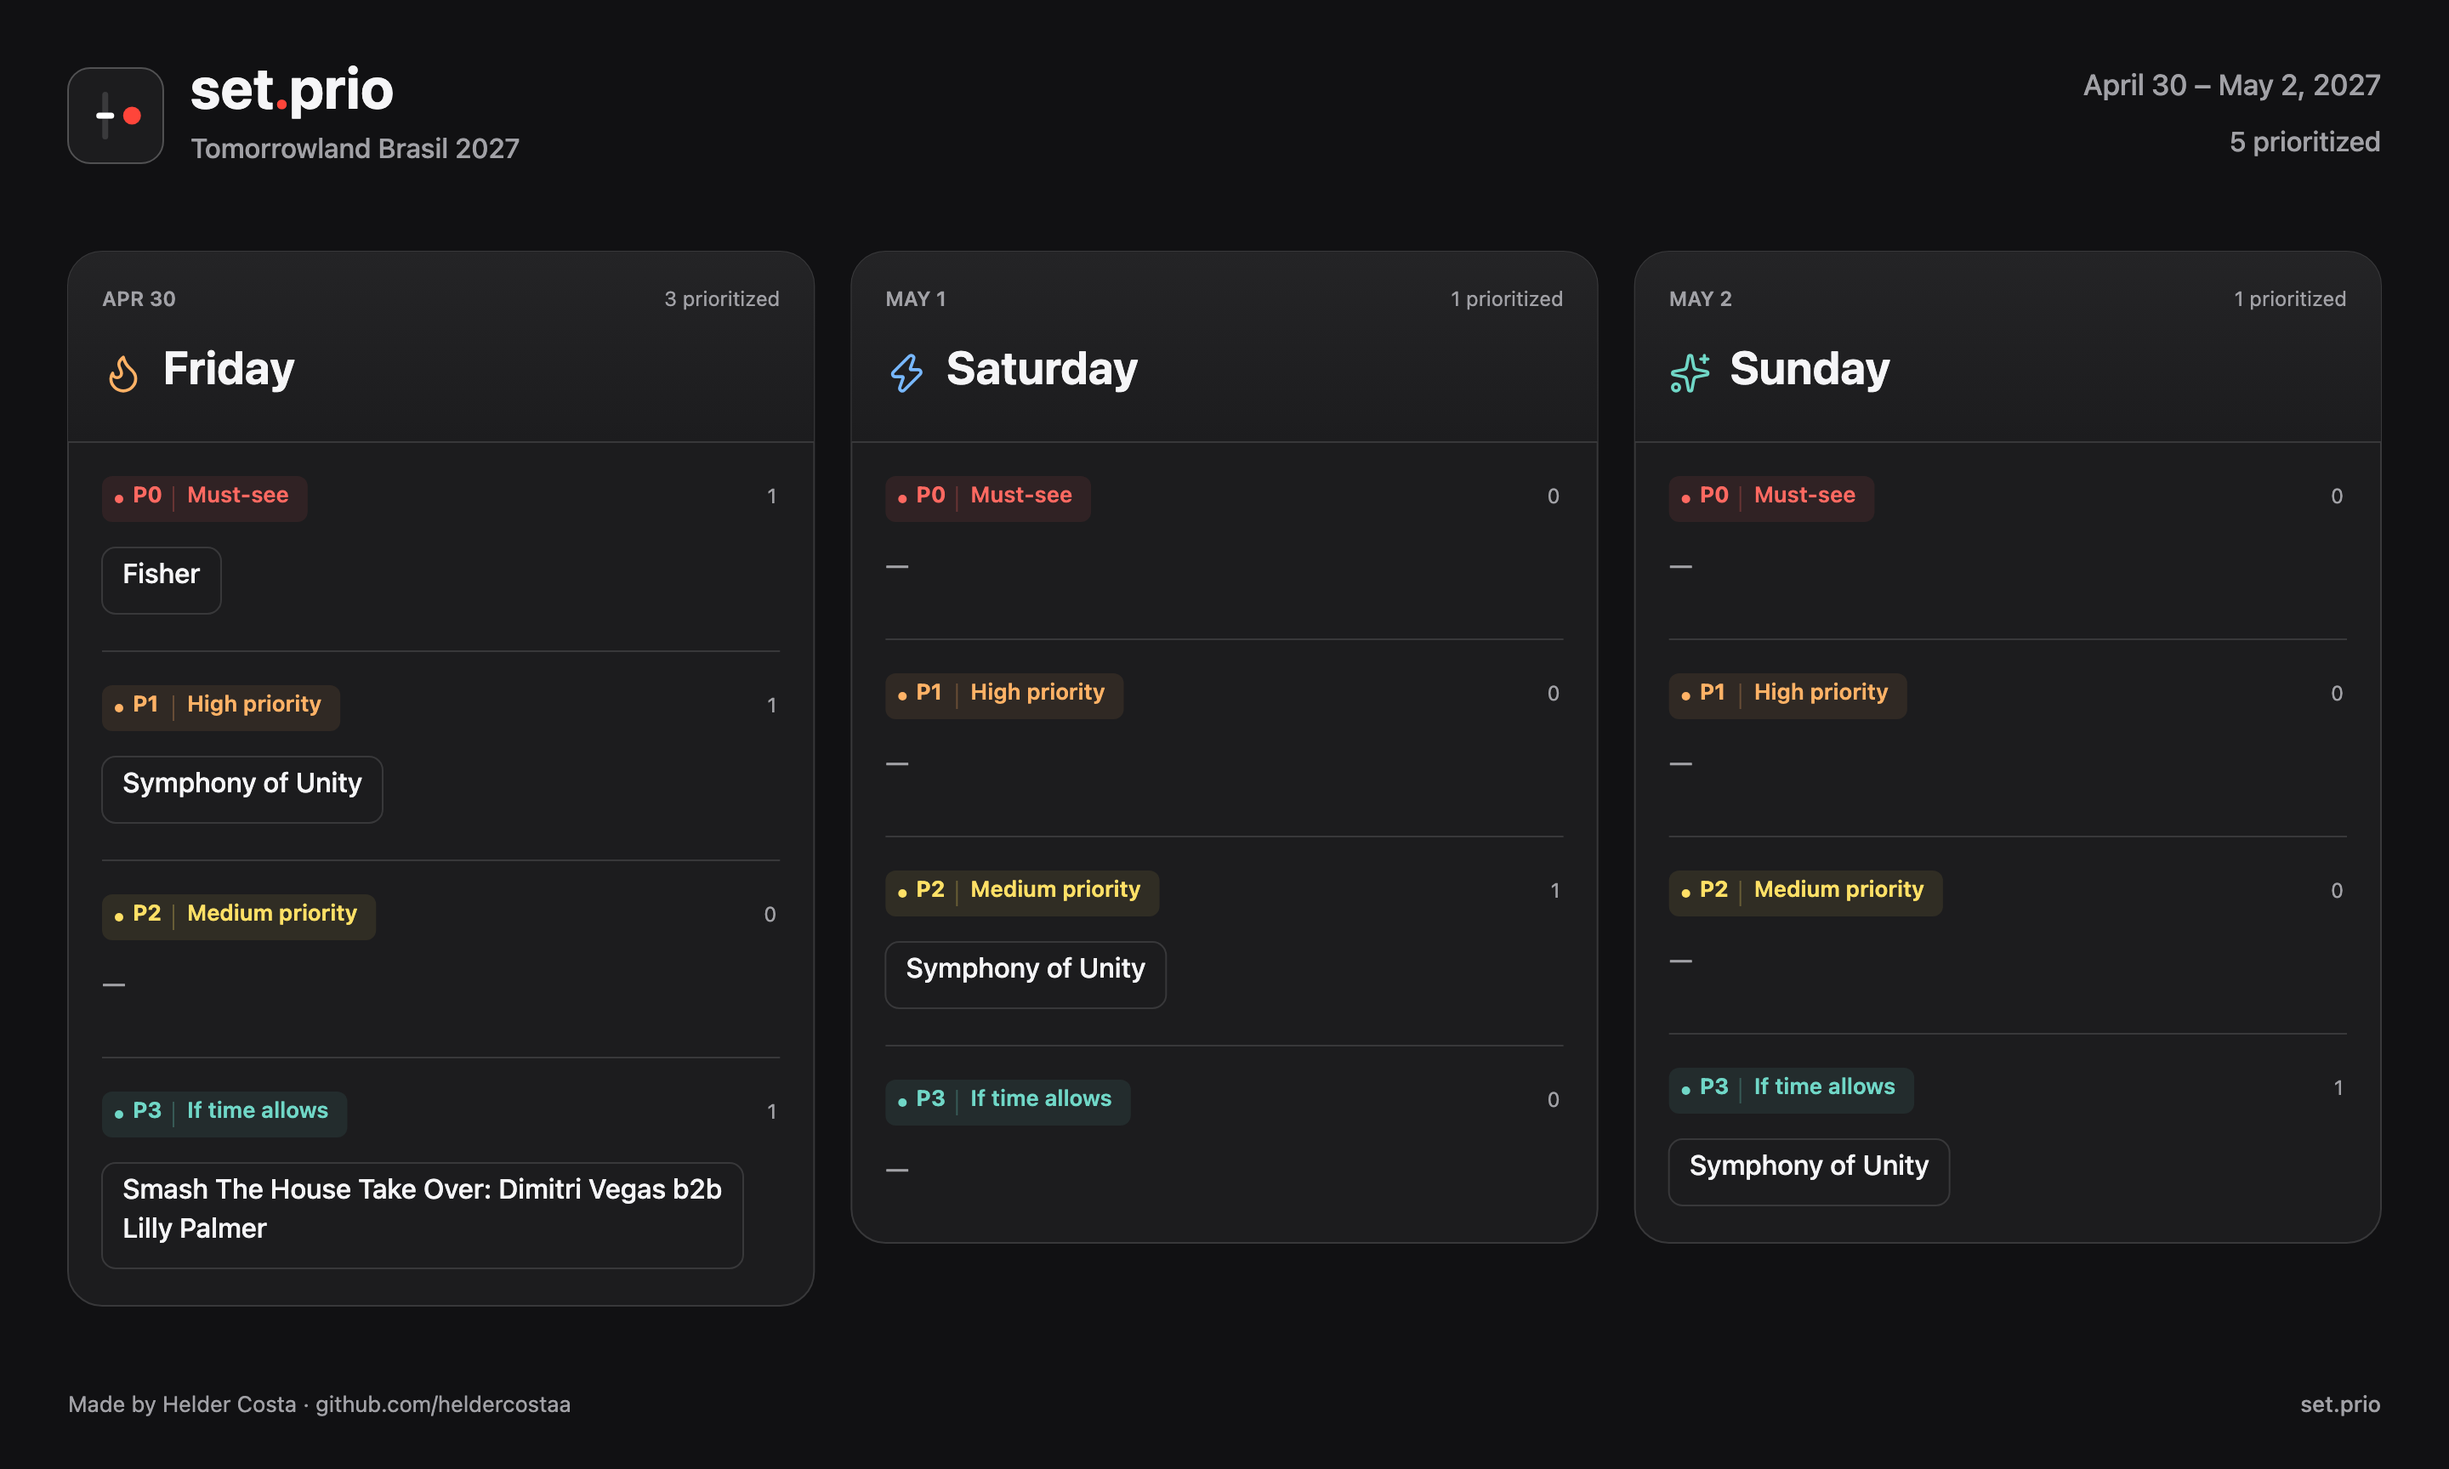
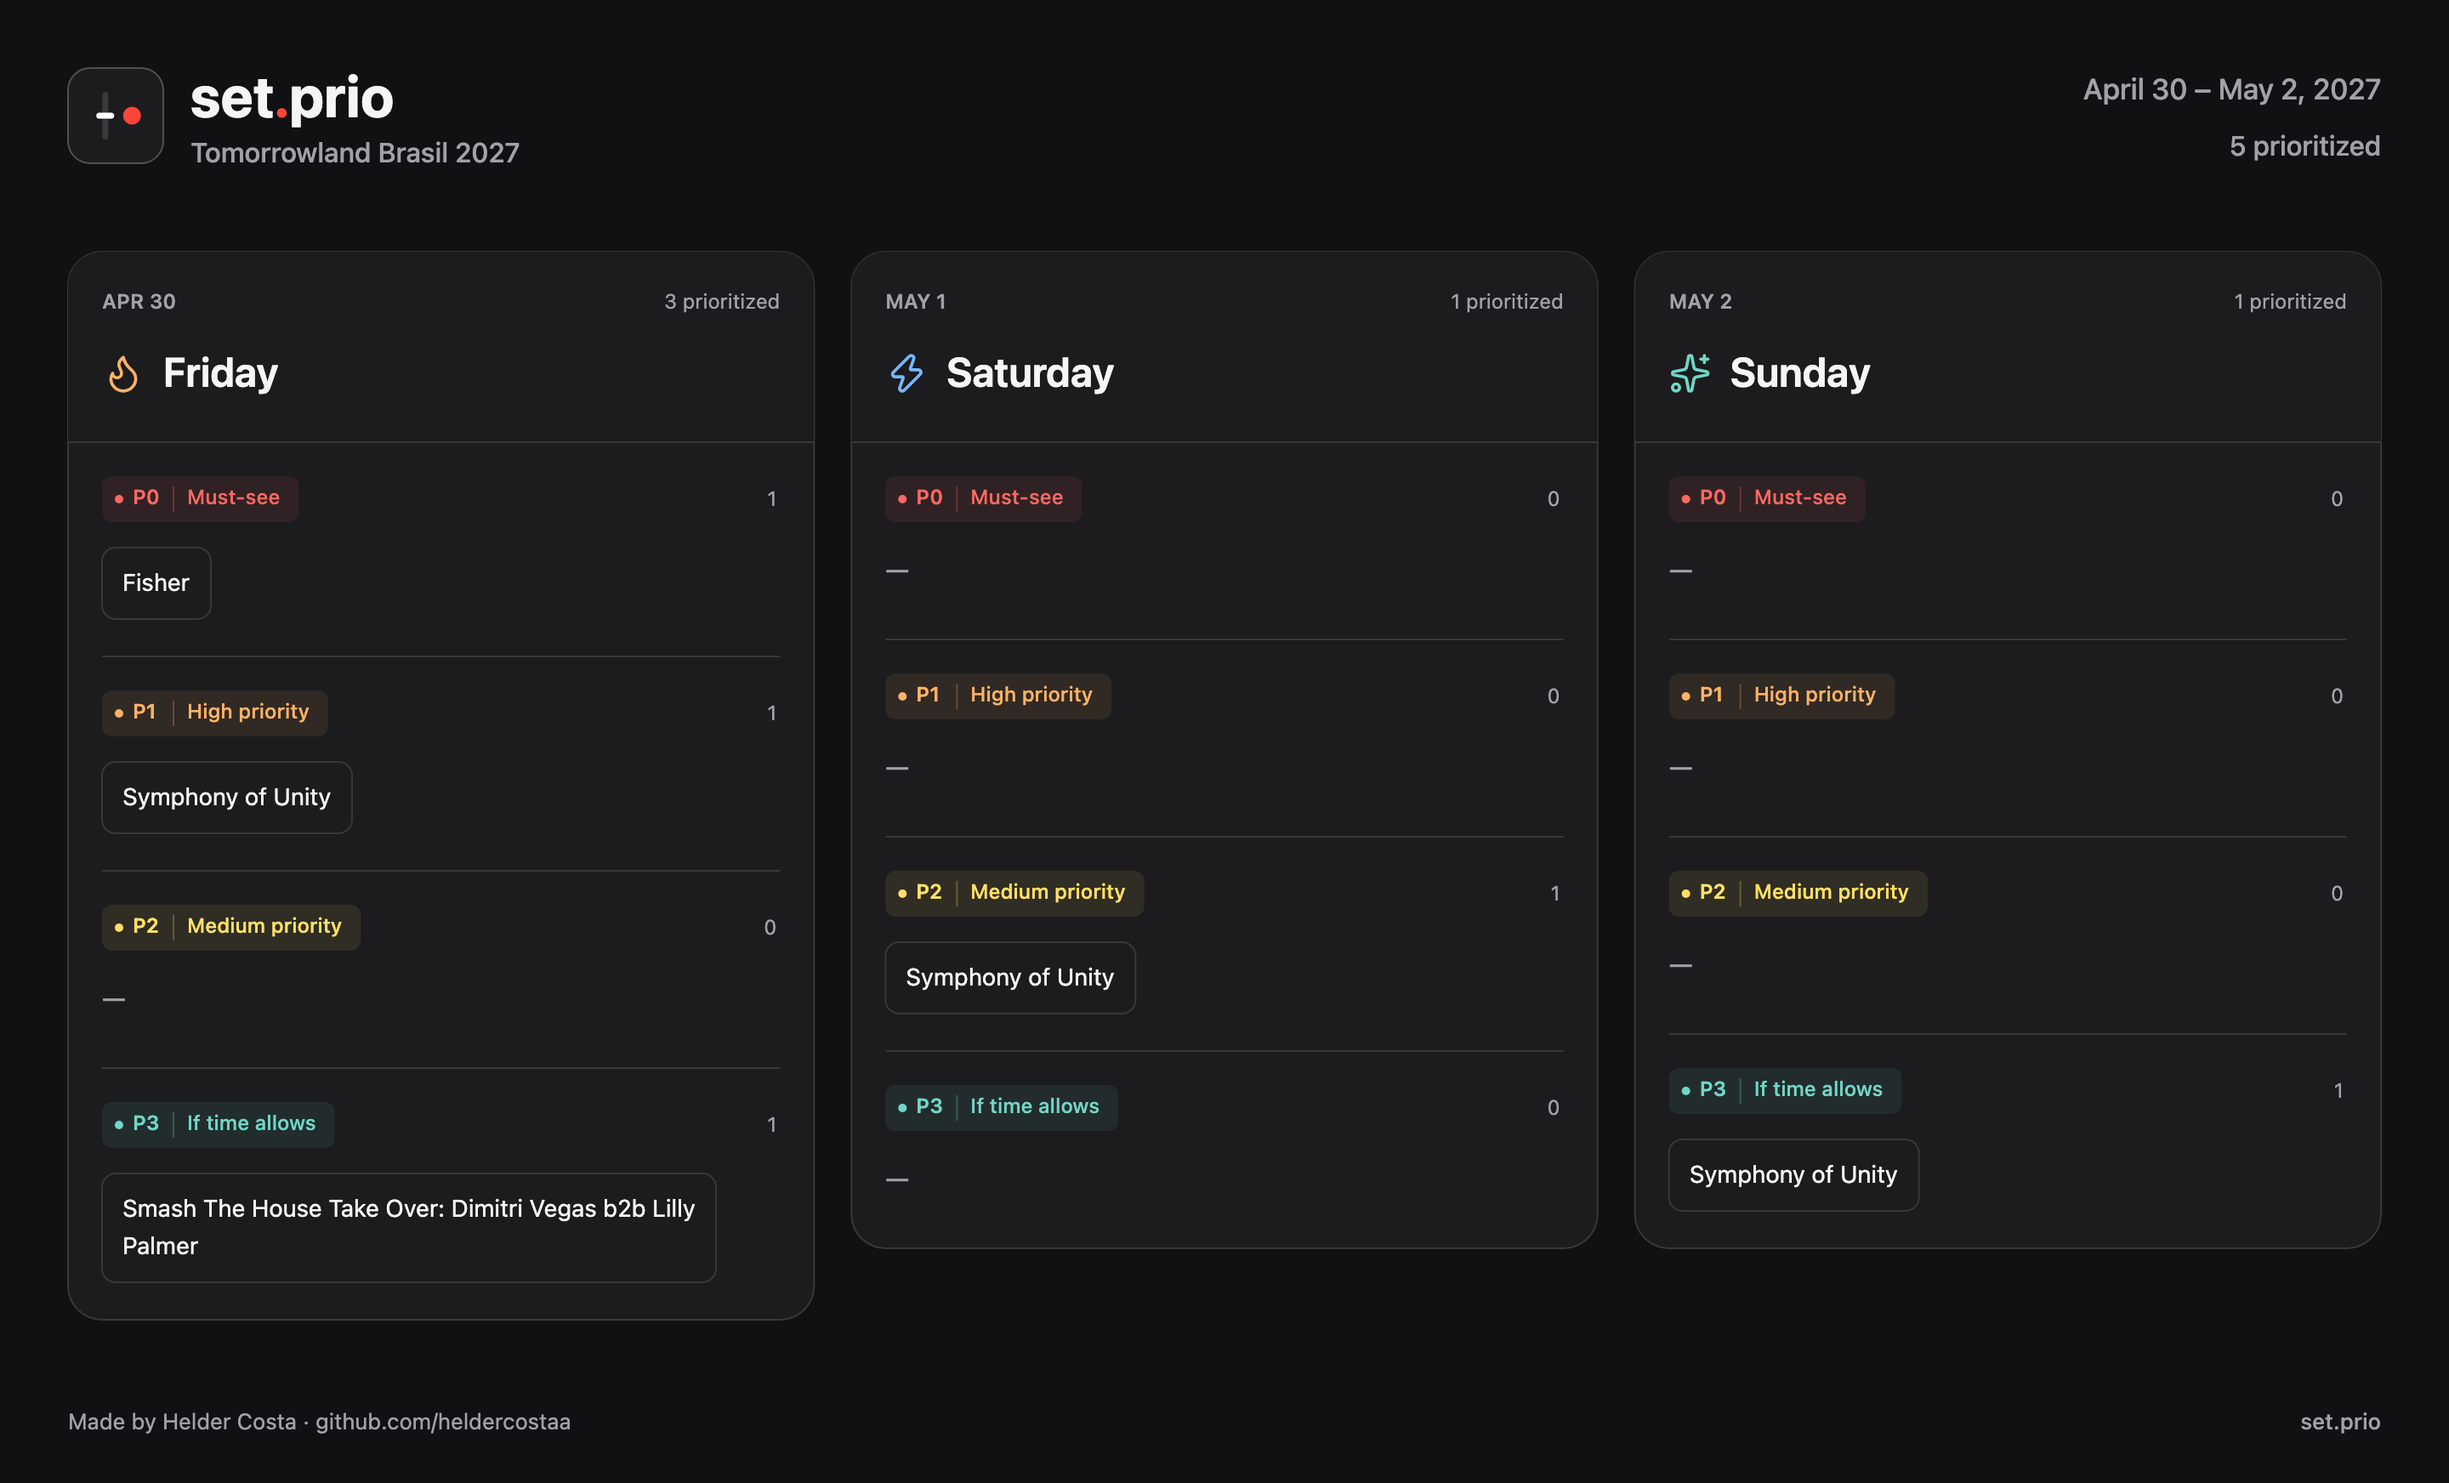
fix: align exported artist and priority typography (#7)

diff --git a/src/utils/exports.ts b/src/utils/exports.ts
@@ -203,8 +203,9 @@ export async function boardImage(entries: ExportEntry[], language: Language): Pr
   const canvas = document.createElement('canvas');
   const context = canvas.getContext('2d');
   if (!context) throw new Error('Canvas unavailable');
-  const font = (weight: number, size: number) => `${weight} ${size}px system-ui, sans-serif`;
-  context.font = font(500, 16);
+  const family = getComputedStyle(document.body).fontFamily;
+  const font = (weight: number, size: number) => `${weight} ${size}px ${family}`;
+  context.font = font(400, 14);
   const wrap = (value: string, maxWidth: number) => {
     const lines: string[] = [];
     let line = '';
@@ -239,7 +240,7 @@ export async function boardImage(entries: ExportEntry[], language: Language): Pr
             innerWidth,
             Math.ceil(Math.max(...lines.map((line) => context.measureText(line).width))) + 24
           );
-          const chipHeight = lines.length * 23 + 16;
+          const chipHeight = lines.length * 22 + 20;
           if (x && x + chipWidth > innerWidth) {
             y += rowHeight + 8;
             x = 0;
@@ -263,7 +264,7 @@ export async function boardImage(entries: ExportEntry[], language: Language): Pr
   canvas.width = width * 2;
   canvas.height = height * 2;
   context.scale(2, 2);
-  context.textBaseline = 'top';
+  context.textBaseline = 'middle';
   const text = '#f5f5f7',
     secondary = '#a1a1a6',
     line = '#38383a';
@@ -296,7 +297,7 @@ export async function boardImage(entries: ExportEntry[], language: Language): Pr
   ) => {
     context.font = font(weight, size);
     context.fillStyle = color;
-    context.fillText(value, x, y);
+    context.fillText(value, x, y + size * 0.65);
   };
   const loadImage = async (path: string) => {
     const image = new Image();
@@ -328,10 +329,7 @@ export async function boardImage(entries: ExportEntry[], language: Language): Pr
     context.beginPath();
     context.roundRect(x, top, columnWidth, column.height, 20);
     context.clip();
-    const gradient = context.createLinearGradient(0, top, 0, top + 112);
-    gradient.addColorStop(0, '#242426');
-    gradient.addColorStop(1, '#1c1c1e');
-    context.fillStyle = gradient;
+    context.fillStyle = '#1c1c1e';
     context.fillRect(x, top, columnWidth, 112);
     context.restore();
     label(
@@ -346,7 +344,7 @@ export async function boardImage(entries: ExportEntry[], language: Language): Pr
     label(`${column.count} ${t.prioritized}`, x + columnWidth - 20, top + 22, 12, 400, secondary);
     context.textAlign = 'left';
     if (dayIcons[index]) context.drawImage(dayIcons[index], x + 20, top + 59, 25, 25);
-    label(dayName(column.day, language), x + (dayIcons[index] ? 56 : 20), top + 56, 27, 650);
+    label(dayName(column.day, language), x + (dayIcons[index] ? 56 : 20), top + 56, 24, 600);
     context.strokeStyle = line;
     context.beginPath();
     context.moveTo(x, top + 112);
@@ -356,20 +354,20 @@ export async function boardImage(entries: ExportEntry[], language: Language): Pr
     for (const group of column.groups) {
       const color = palette[group.priority];
       const title = priorityLabel(group.priority, language);
-      context.font = font(600, 13);
+      context.font = font(500, 12);
       const badgeWidth = context.measureText(title).width + 61;
       box(x + 20, y + 20, badgeWidth, 27, 6, `${color}17`);
       context.beginPath();
       context.arc(x + 30, y + 33.5, 2.5, 0, Math.PI * 2);
       context.fillStyle = color;
       context.fill();
-      label(group.priority, x + 38, y + 25, 13, 700, color);
+      label(group.priority, x + 38, y + 25, 12, 600, color);
       context.strokeStyle = `${color}45`;
       context.beginPath();
       context.moveTo(x + 62, y + 26);
       context.lineTo(x + 62, y + 41);
       context.stroke();
-      label(title, x + 70, y + 25, 13, 600, color);
+      label(title, x + 70, y + 25, 12, 500, color);
       context.textAlign = 'right';
       label(String(group.names.length), x + columnWidth - 22, y + 26, 12, 400, secondary);
       context.textAlign = 'left';
@@ -378,7 +376,7 @@ export async function boardImage(entries: ExportEntry[], language: Language): Pr
           cy = y + 62 + chip.y;
         box(cx, cy, chip.width, chip.height, 8, '#1c1c1e', line);
         chip.lines.forEach((value, i) => {
-          label(value, cx + 12, cy + 8 + i * 23, 16, 500);
+          label(value, cx + 12, cy + 12 + i * 22, 14, 400);
         });
       }
       if (!group.names.length) label('—', x + 20, y + 65, 16, 400, secondary);

diff --git a/e2e/planner.spec.ts b/e2e/planner.spec.ts
@@ -338,3 +338,50 @@ test('clipboard failure offers a usable manual copy', async ({ page }) => {
   await expect(text).toBeFocused();
   await page.getByRole('button', { name: 'Close', exact: true }).click();
 });
+
+test('a fully prioritized catalog exports all groups beyond the viewport', async ({
+  page,
+}, testInfo) => {
+  const catalog = JSON.parse(await readFile('src/data/catalog.json', 'utf8')) as {
+    appearances: { id: string; day: string | null }[];
+  };
+  const priorities = Object.fromEntries(
+    catalog.appearances.map((a, index) => [a.id, `P${index % 4}`])
+  );
+  await page.evaluate(
+    (priorities) =>
+      localStorage.setItem(
+        'set.prio:brasil-2027:v1',
+        JSON.stringify({
+          version: 1,
+          language: 'en',
+          activeDay: '2027-04-30',
+          priorities,
+          ratings: {},
+          comments: {},
+        })
+      ),
+    priorities
+  );
+  await page.reload();
+  await page.getByRole('searchbox').fill('no matching artist');
+  await page.getByRole('button', { name: 'Export plan', exact: true }).click();
+  await expect(page.getByRole('menu')).toContainText(`${catalog.appearances.length}`);
+  const downloadEvent = page.waitForEvent('download');
+  await page.getByRole('menuitem', { name: /Download image/ }).click();
+  const download = await downloadEvent;
+  const bytes = await readFile(await download.path());
+  const metadata = await sharp(bytes).metadata();
+  expect(metadata.width).toBe(2880);
+  expect(metadata.height).toBeGreaterThan(2000);
+  const footer = await sharp(bytes)
+    .extract({ left: 80, top: (metadata.height ?? 0) - 100, width: 1300, height: 50 })
+    .removeAlpha()
+    .stats();
+  expect(
+    footer.channels.some((channel) => channel.max > 150),
+    'Credits remain inside the complete image'
+  ).toBe(true);
+  if (testInfo.project.name === 'chromium')
+    await copyFile(await download.path(), 'docs/screenshots/export-full.png');
+});
